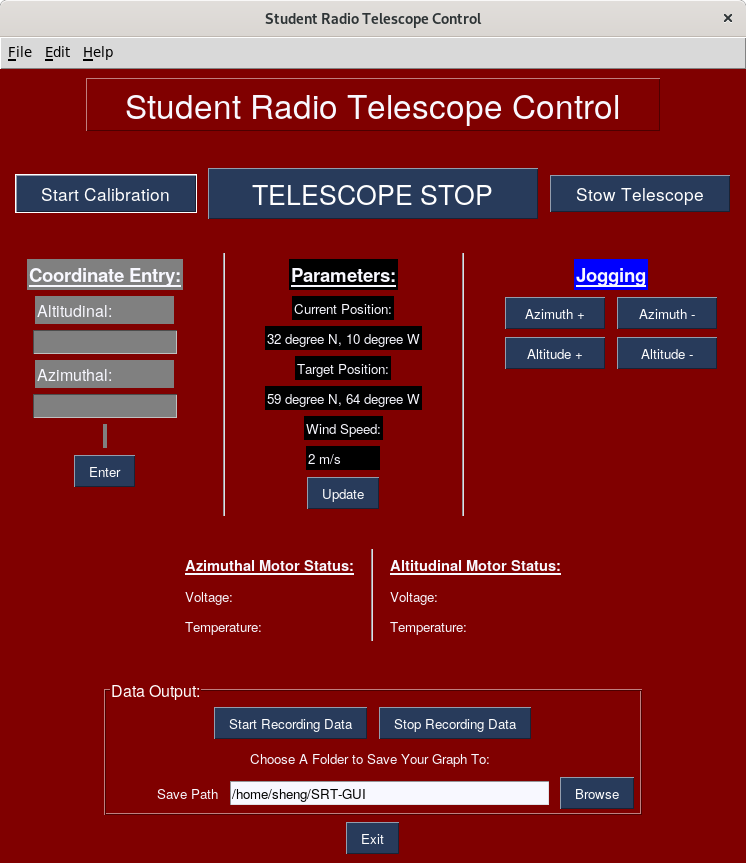
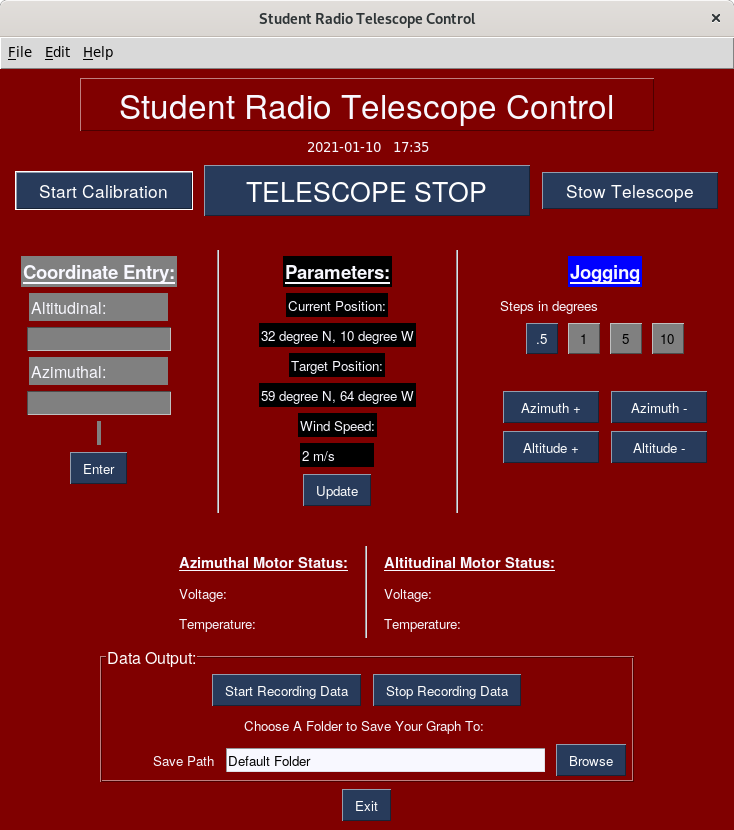
Added jogging steps, output window

diff --git a/main.py b/main.py
@@ -48,7 +48,12 @@ Parameters = [  [sg.T('Parameters:',font=("Helvetica 14 underline bold"),backgro
                 ]
 
 Jogging = [     [sg.T('Jogging',font=('Helvetica 14 underline bold'),background_color='blue')],
-                [sg.B('1 degree')],
+                [sg.T('Steps in degrees',justification='l',size=(30,1))],
+                [sg.B('.5',size=(3,1),use_ttk_buttons=True,key='-STEP1-'),
+                    sg.B('1',size=(3,1),use_ttk_buttons=True,button_color=('black','gray'),key='-STEP2-'),
+                    sg.B('5',size=(3,1),use_ttk_buttons=True,button_color=('black','gray'),key='-STEP3-'),
+                    sg.B('10',size=(3,1),use_ttk_buttons=True,button_color=('black','gray'),key='-STEP4-')],
+                [sg.T(''),sg.T('')],
                 [sg.B('Azimuth +',size=(10,1),key='_AZ+_'), sg.B('Azimuth -',size=(10,1),key='_AZ-_')],
                 [sg.B('Altitude +',size=(10,1),key='_ALT+_'), sg.B('Altitude -',size=(10,1),key='_ALT-_')]
                 ]
@@ -74,12 +79,18 @@ data_recording = [
                 [sg.T('Save Path',size=(15,1),auto_size_text=False,justification='r'),
                     sg.In('Default Folder',font=("Helvetica 10")), sg.FolderBrowse()]
                 ]
+
+output =    [   [sg.T('Radio Telescope Control Output/Log')],
+                [sg.Output(size=(50,10),key='-OUTPUT-')],
+                [sg.B('Clear'), sg.B('Save Log'), sg.B('Quit')]
+                ]
+
 # layout
 layout = [  [sg.Menu(menu_def, tearoff=True)],
             [sg.T('Student Radio Telescope Control',size=(30,1),justification='c',font=("Helvetica 25"),
-                relief=sg.RELIEF_GROOVE)],
+                relief=sg.RELIEF_GROOVE),sg.T('',font=("DejaVu 10"),size=(15,1),key='-datetime-')],
             #[sg.T(" ")],
-            [sg.T('',font=("DejaVu 10"),size=(15,1),key='-datetime-')],
+            #[sg.T('',font=("DejaVu 10"),size=(15,1),key='-datetime-')],
             [sg.B('Start Calibration',size=(15,1),font=("Helvetica 13"),key='-CALIB-'),
                 sg.B('TELESCOPE STOP',size=(20,1),font=("Helvetica 20"),key='-ESTOP-'),
                 sg.B('Stow Telescope',size=(15,1),font=("Helvetica 13"),key='-STOW-')],
@@ -90,21 +101,26 @@ layout = [  [sg.Menu(menu_def, tearoff=True)],
                 sg.VSep(pad=((30,30),(0,0))),
                 sg.Col(Jogging, element_justification='c', vertical_alignment='top')],
             [sg.T(" ")],
-            [sg.Col(motor_status_az, element_justification = 'l'),
+            [sg.Col(motor_status_az, justification='l', element_justification='l'),
                 sg.VSep(),
                 sg.Col(motor_status_alt, element_justification='l')],
             #[sg.T(" ")],
             [sg.Frame(layout=data_recording, title='Data Output:',
                 font=("Helvetica 12"), title_color='white', relief=sg.RELIEF_RIDGE,
-                background_color='maroon', element_justification='c')],
+                background_color='maroon', element_justification='c'),
+                sg.Output(size=(50,10),key='-OUTPUT-')],
             [sg.Exit()]
             ]
+
 
 # create window
 window = sg.Window('Student Radio Telescope Control', layout, element_justification='c')
 
 WindSpeed = -99
 WindSpeedstr = str(WindSpeed) + ' m/s'
+
+JogStepAZ = 4683
+JogStepALT = 929
 
 # Serial connection to Analog Front-End Control
 #AnalogControl = AFE.Init(9600)
@@ -123,23 +139,24 @@ while True:  # Event Loop
     time = dt.now().strftime('%Y-%m-%d   %H:%M')
     window['-datetime-'].update(time)
 
-    #print(event, values)
 
     if event == sg.WIN_CLOSED or event == 'Exit':
         # GUI is closed either by using 'X', or the Exit button
         break
 
-    if event == 'Enter':
 
+    if event == 'Enter':
         #TODO
         window['-POS-TGT-'].update(9999)
+
 
     if event == '-ESTOP-':
         print("Software E-Stop is pressed")
 
-        mc.Stop(motor_AZ)
+        #mc.Stop(motor_AZ)
         #mc.Stop(motor_ALT)
-        AFE.ReleaseBrake(AnalogControl)
+        #AFE.ReleaseBrake(AnalogControl)
+
 
     if event == '-UPDATE-':
         # When Update is pressed, retreive ADC value from AFE
@@ -148,28 +165,74 @@ while True:  # Event Loop
         #WindSpeed = AFE.GetWindRaw(AnalogControl)
         window['-WIND-'].update(value=WindSpeed)
 
-        # TODO Update voltge
-        _VAZ_ = mc.GetVoltage(motor_AZ)
+        # Update voltge
+        #_VAZ_ = mc.GetVoltage(motor_AZ)
         #_VALT_ = mc.GetVoltage(motor_ALT)
 
         window['_voltAZ_'].update(value=_VAZ_)
         #window['_voltALT_'].update(value=_VALT_)
 
+
+    if event == '-STEP1-':
+
+        JogStepAZ = 4683
+        JogStepALT = 929
+
+        window['-STEP1-'].Update(button_color=('ghost white','midnight blue'))
+        window['-STEP2-'].Update(button_color=('black','gray'))
+        window['-STEP3-'].Update(button_color=('black','gray'))
+        window['-STEP4-'].Update(button_color=('black','gray'))
+
+    if event == '-STEP2-':
+
+        JogStepAZ = 9365
+        JogStepALT = 1857
+
+        window['-STEP1-'].Update(button_color=('black','gray'))
+        window['-STEP2-'].Update(button_color=('ghost white','midnight blue'))
+        window['-STEP3-'].Update(button_color=('black','gray'))
+        window['-STEP4-'].Update(button_color=('black','gray'))
+
+    if event == '-STEP3-':
+
+        JogStepAZ = 46825
+        JogStepALT = 9286
+
+        window['-STEP1-'].Update(button_color=('black','gray'))
+        window['-STEP2-'].Update(button_color=('black','gray'))
+        window['-STEP3-'].Update(button_color=('ghost white','midnight blue'))
+        window['-STEP4-'].Update(button_color=('black','gray'))
+
+    if event == '-STEP4-':
+
+        JogStepAZ = 93651
+        JogStepALT = 18571
+
+        window['-STEP1-'].Update(button_color=('black','gray'))
+        window['-STEP2-'].Update(button_color=('black','gray'))
+        window['-STEP3-'].Update(button_color=('black','gray'))
+        window['-STEP4-'].Update(button_color=('ghost white','midnight blue'))
+
+
     if event == '_AZ+_':
-        print('Jog AZ +')
-        mc.Jogging(motor_AZ, 0)
+
+        print('Jogging')
+        #mc.Jogging(motor_AZ, JogStepAZ)
 
     if event == '_AZ-_':
-        print('Jog AZ -')
-        mc.Jogging(motor_AZ, 1)
+
+        print('Jogging')
+        #mc.Jogging(motor_AZ, -JogStepAZ)
 
     if event == '_ALT+_':
-        print('Jog ALT +')
-        mc.Jogging(motor_AZ, 0)
+
+        print('Jogging')
+        #mc.Jogging(motor_ALT, JogStepALT)
 
     if event == '_ALT-_':
-        print('Jog ALT -')
-        mc.Jogging(motor_AZ, 1)
+
+        print('Jogging')
+        #mc.Jogging(motor_ALT, -JogStepALT)
 
 
 # Close the Serial connection
